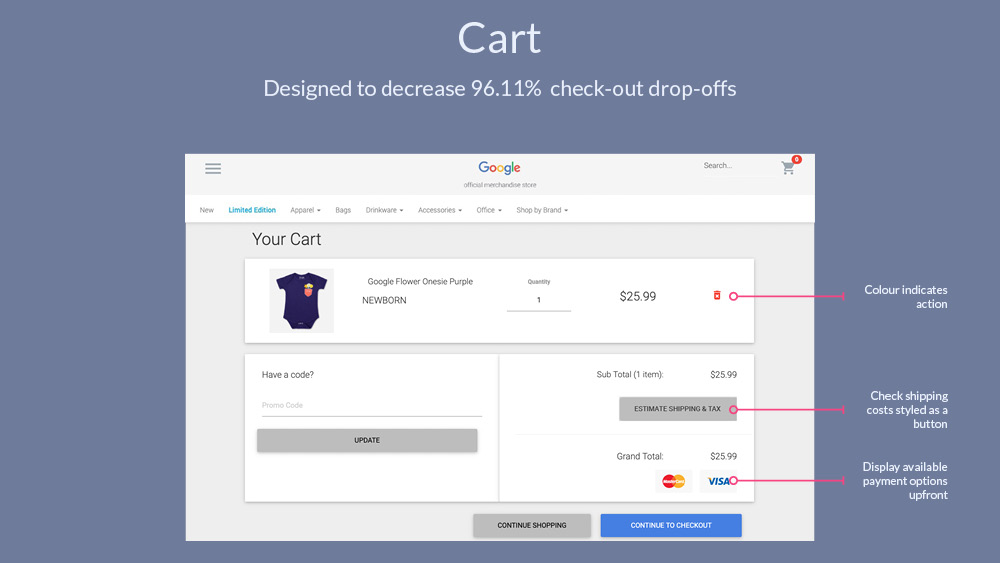
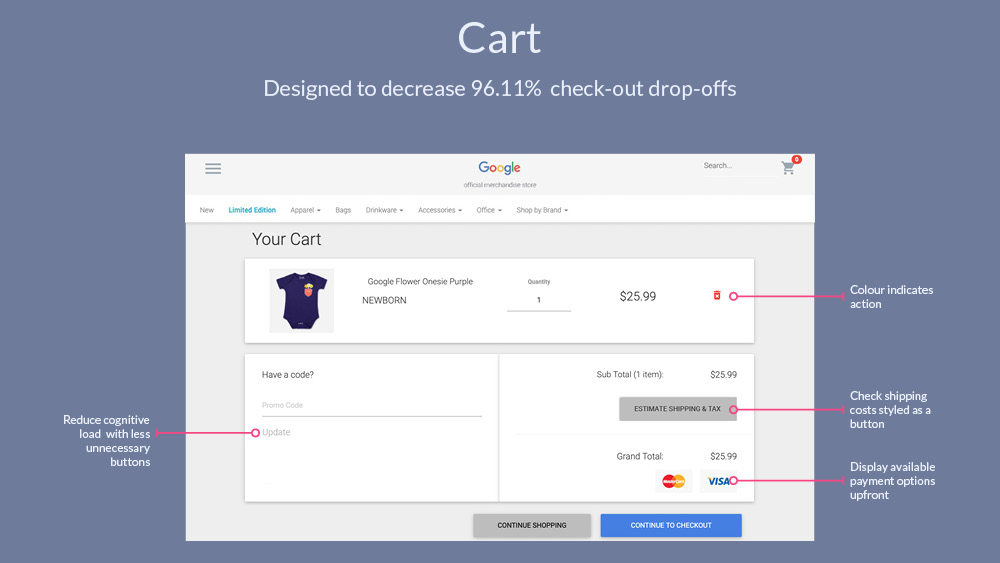
code button and summary

diff --git a/qual-and-quant.html b/qual-and-quant.html
@@ -167,7 +167,8 @@
           <figcaption>Fig. 16</figcaption>
         </figure>
         <div class="content-block">
-          <p>summary to come...</p>
+          <p>With these changes I'd expect a drop in check-out drop-offs and greater user satisfaction with the check-out process. These changes should be tracked further with Analytics concentrating on abandonment rates.</p>
+          <p>It was good to see that the broken category links were fixed weeks later, because this caused a lot of confusion for the user. The affordance on the 'Choose size' option and also the 'Add to cart' button really needs to be changed to reduce 'user error' (it isn't actually a user error, this is a design error). Also a content review is necessary, focusing first on the abbreviations of sizes.</p>
         </div>
         <div class="project-nav">
           <div class="project-prev">
